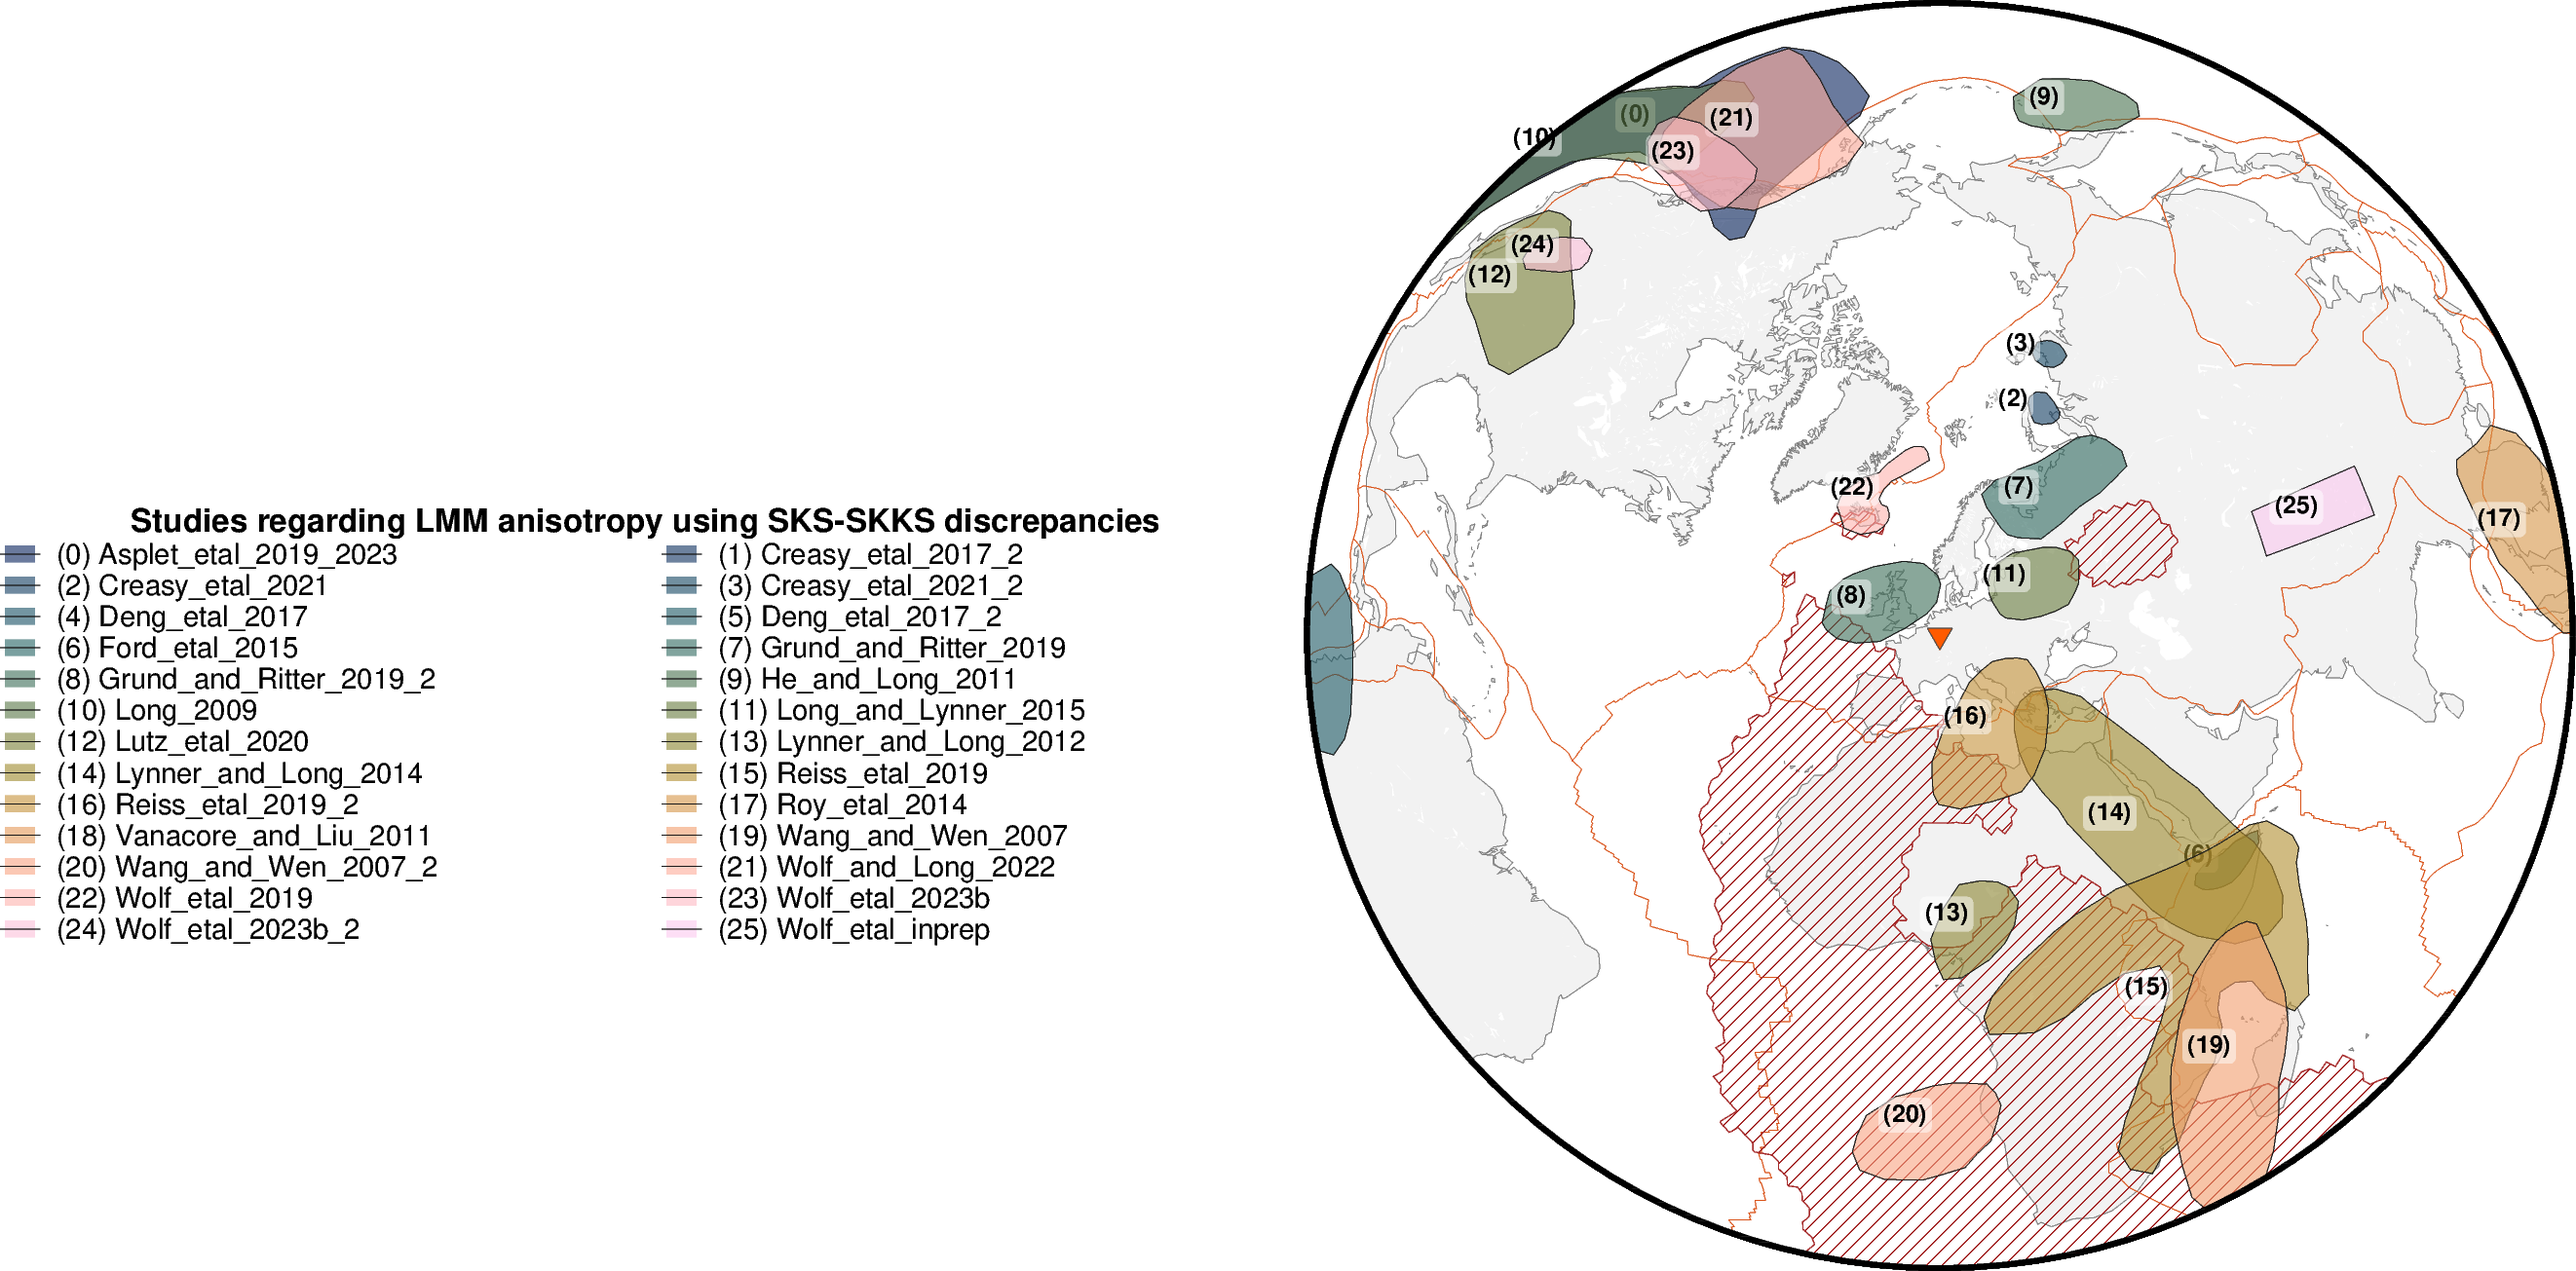
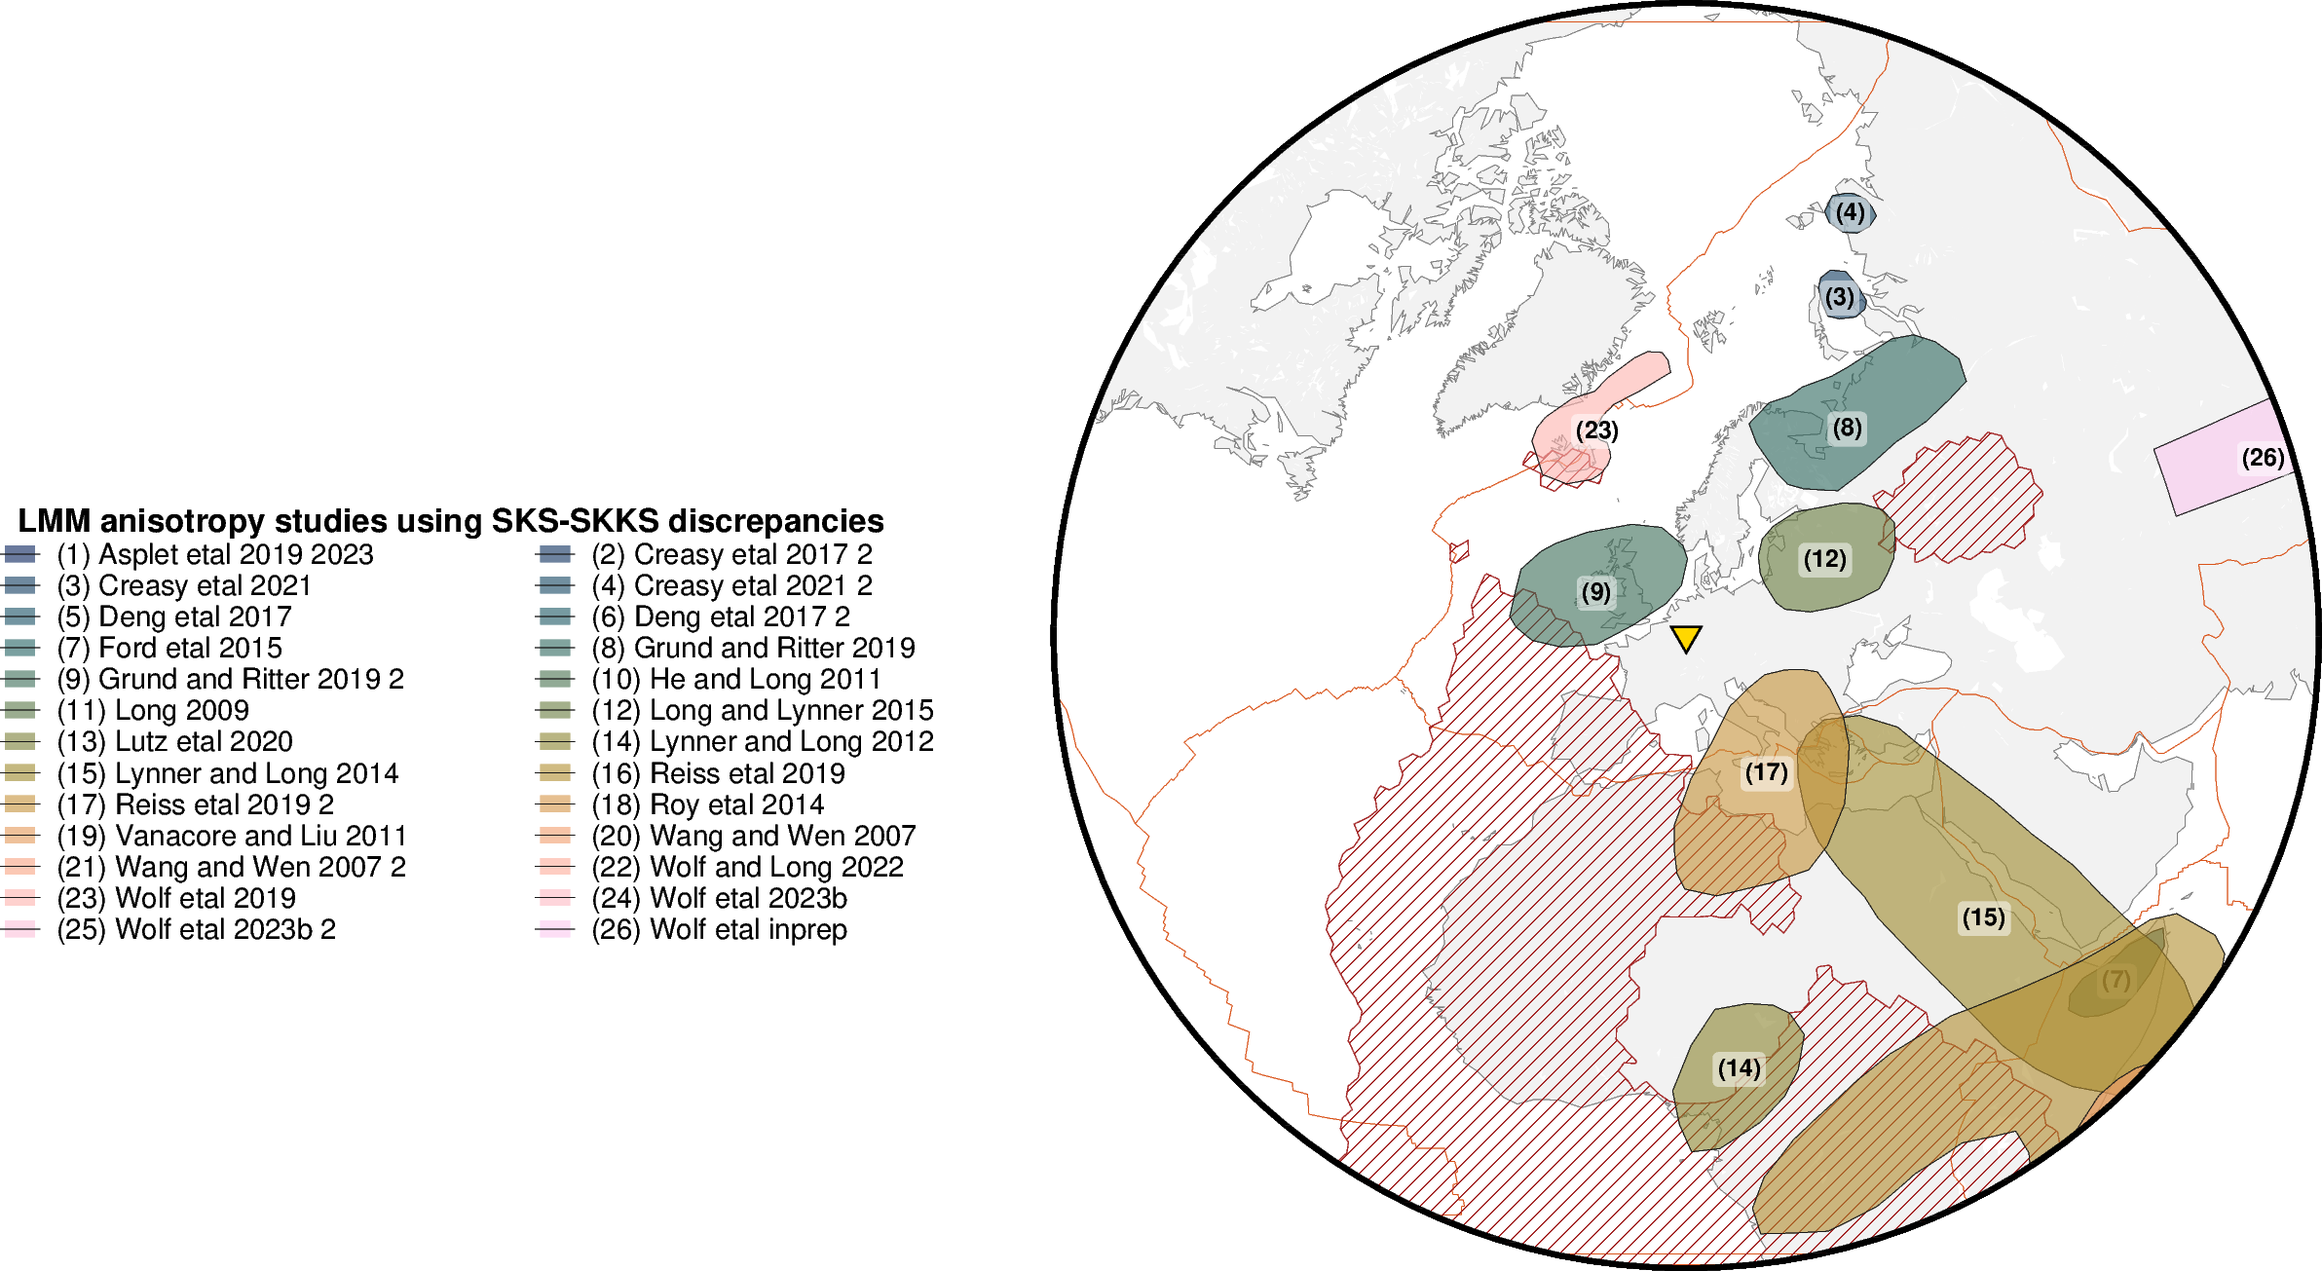
Start labels at one

diff --git a/006_tomographies_databases/02_db_deepaniso/map_db_deepaniso.py b/006_tomographies_databases/02_db_deepaniso/map_db_deepaniso.py
@@ -35,15 +35,15 @@ import pygmt as gmt
 # -----------------------------------------------------------------------------
 # Adjust for your needs
 # -----------------------------------------------------------------------------
-status_projection = "ROB"  # "ROB", "EPI"
+status_projection = "EPI"  # "ROB", "EPI"
 status_color = "CMAP"  # "MONO", "CMAP"
 status_labels = "YES"  # "NO", "YES"
-status_legend = "BOTTOM"  # "NO", "RIGHT", "LEFT", "BOTTOM
+status_legend = "LEFT"  # "NO", "RIGHT", "LEFT", "BOTTOM
 status_title = "NO"  # "NO", "YES"
 
 epi_lon = 7  # degrees East
 epi_lat = 50  # degrees North
-epi_max = 90  # degrees
+epi_max = 60  # degrees
 
 
 # %%
@@ -58,6 +58,7 @@ file_pb = "plate_boundaries_Bird_2003.txt"
 # Colors
 color_pb = "216.750/82.875/24.990"  # plate boundaries after Bird 2003
 color_sl = "gray50"  # shorelines (used data built-in in PyGMT / GMT)
+color_sta = "gold"
 color_hl = "255/90/0"  # highlight
 color_land = "gray95"
 color_llpv = "brown"
@@ -92,7 +93,11 @@ for analysis in folders_analysis:
     fig = gmt.Figure()
     gmt.config(FONT_TITLE="12p", FONT_LABEL="10p")
 
-    fig.basemap(region="d", projection=projection, frame=frame_title)
+    fig.basemap(
+        region="d",
+        projection=projection,
+        frame=["WSnE", "xa90f30", "ya30f15", frame_title],
+    )
     fig.coast(land=color_land, shorelines=f"1/0.05p,{color_sl}")
 
 # -----------------------------------------------------------------------------
@@ -125,17 +130,19 @@ for analysis in folders_analysis:
         if i_area == 0:  # first legend entry with title for legend
             ana_leg_add = ""
             if analysis in ["SKS-SKKS", "S-ScS"]: ana_leg_add = " discrepancies"
-            cb_columns = f"+N2+HStudies regarding LMM anisotropy using {analysis}" + \
-                         f"{ana_leg_add}+f8p"
+            cb_columns = f"+N2+HLMM anisotropy studies using {analysis}" + \
+                         f"{ana_leg_add}              @;white;.@;;+f8p"
         else:
             cb_columns = ""
 
         # Plot areas in color
+        area_split = area.split("_")
+        area_whitespace = " ".join(area_split)
         args_col = {
             "data": data_use,
             "pen": "0.1p,gray10",
             "close": True,
-            "label": f"({i_area}) {area}{cb_columns}",
+            "label": f"({i_area + 1}) {area_whitespace}{cb_columns}",  # start at 1
         }
         match status_color:
             case "MONO":
@@ -145,11 +152,13 @@ for analysis in folders_analysis:
 
         # Add numbers as labels for each area
         if status_labels == "YES":
+            offset = 0
+            if status_projection == "ROB": offset = "-0.25c/0.1c"
             fig.text(
                 x=mean_lon,
                 y=mean_lat,
-                text=f"({i_area})",
-                offset="-0.25c/0.1c",
+                offset=offset,
+                text=f"({i_area + 1})",
                 font="6p,Helvetica-Bold,black",
                 fill="white@50",
                 clearance="0.05c/0.05c+tO",
@@ -158,19 +167,19 @@ for analysis in folders_analysis:
     # Add legend with studies related to the numbers
     if status_legend != "NO":
         match status_legend:
-            case "LEFT": legend_pos = "JLM+jRM+o0c/1c+w11.5c"
-            case "RIGHT": legend_pos = "JRM+jLM+o1c/1c+w11.5c"
-            case "BOTTOM": legend_pos = "JBC+jTC+o0c/0.7c+w11.5c"
+            case "LEFT": legend_pos = "JLM+jRM+o0c/1c+w9.3c"
+            case "RIGHT": legend_pos = "JRM+jLM+o0.5c/1c+w9.3c"
+            case "BOTTOM": legend_pos = "JCB+jCT+o0.5c/0.6c+w9.3c"
         with gmt.config(FONT="7p"):
             fig.legend(position=legend_pos)
 
     # Mark center of epidistance plot as inverse triangle for theoretical recording station
     if status_projection == "EPI":
-        fig.plot(x=epi_lon, y=epi_lat, style="i0.25c", fill=color_hl, pen="0.1p,gray30")
+        fig.plot(x=epi_lon, y=epi_lat, style="i0.3c", fill=color_sta, pen="0.5p,black")
 
 # -----------------------------------------------------------------------------
     # Plot map frame on top
-    fig.basemap(frame=["WSnE", "xa90f30", "ya30f15"])
+    fig.basemap(frame=0)
 
 # -----------------------------------------------------------------------------
     fig.show()
